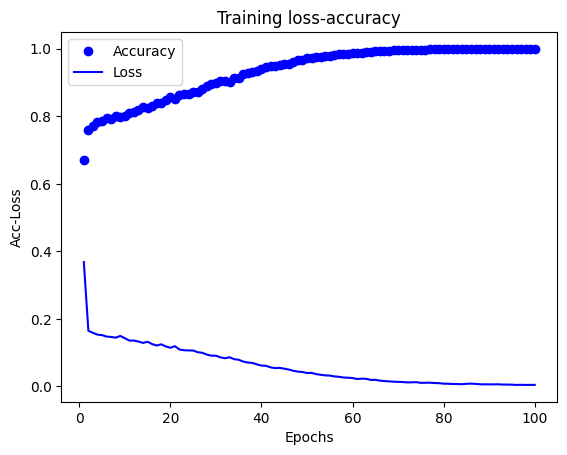
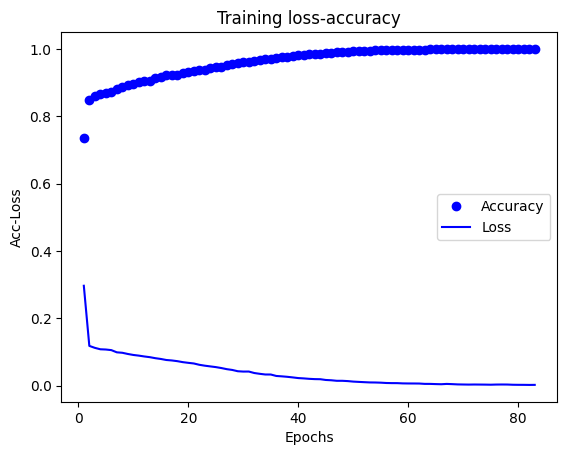
update

diff --git a/README.md b/README.md
@@ -62,9 +62,9 @@ That is why we put together this project to let an AI predict the quality of a w
 * Target = Good wine (1) or Bad wine (0)
 
 #### 2. Resampling (data balance)
-* Nº samples = 8342
+* Nº samples = 17414
     * 0 - 4310
-    * 1 - 4032
+    * 1 - 13104
 
 #### 3. Data Shuffle
 * pd.sample()
@@ -80,13 +80,14 @@ That is why we put together this project to let an AI predict the quality of a w
 * loss = 'mse'
 * kernel_initializer = 'normal'
 * epochs = 100
+* callbacks.EarlyStopping(patience=10)
 
 ## Model Evaluation
 #### Training:
-* loss: 0.0047 - accuracy: 0.9996
+* loss: 0.0023 - accuracy: 0.9998
 
 #### Test:
-* loss: 0.0991 - accuracy: 0.8949
+* loss: 0.0395 - accuracy: 0.9584
 
 #### Visuals:
 
